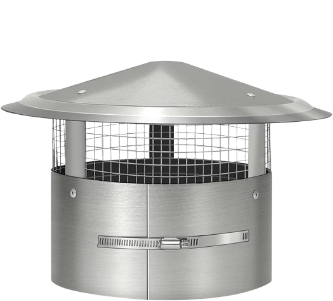
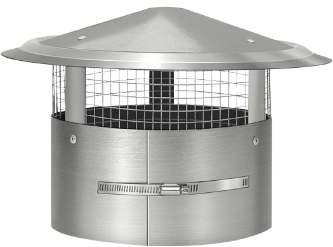
**Product photos centered and proportionate — complete** - Every product photo now sits dead-center in its tile at a consistent size. I trimmed the invisible padding baked into the image files themselves (the scupper especially was mostly empty canvas), so each product fills its frame the same way —
Emergent-Commit-Key: e7163932dc436f77b446882e68a704a089de4680baa05bbd754882ac7e70fc3e

diff --git a/frontend/src/data/products.js b/frontend/src/data/products.js
@@ -21,7 +21,6 @@ export const PRODUCTS = [
     name: "Spun Aluminum Roofing Cones",
     shortName: "Roof Cones",
     image: "/products/roof-cone.png",
-    imageClass: "scale-[1.15] group-hover:scale-[1.25]",
     category: "Penetrations",
     shortDesc:
       "One-piece spun cone flashings with wide base flanges for vent, conduit, and pipe penetrations on flat roofs.",
@@ -37,7 +36,6 @@ export const PRODUCTS = [
     name: "Spun Aluminum & Copper Stack Jacks",
     shortName: "Stack Jacks",
     image: "/products/stack-jack.png",
-    imageClass: "scale-[1.3] group-hover:scale-[1.4]",
     category: "Penetrations",
     shortDesc:
       "One-piece spun vent pipe flashings with welded base flanges and storm collars for plumbing stack penetrations.",
@@ -53,7 +51,6 @@ export const PRODUCTS = [
     name: "Parapet Thru-Wall & Overflow Scuppers",
     shortName: "Scuppers",
     image: "/products/scupper.png",
-    imageClass: "scale-[1.45] group-hover:scale-[1.55]",
     category: "Perimeter",
     shortDesc:
       "Custom fabricated parapet wall outlets with welded collector boxes and drip edges for emergency drainage.",
@@ -69,7 +66,6 @@ export const PRODUCTS = [
     name: "Rain Collars with Draw Bands",
     shortName: "Rain Collar",
     image: "/products/rain-collar.png",
-    imageClass: "scale-[1.15] group-hover:scale-[1.25]",
     category: "Penetrations",
     shortDesc:
       "Spun cone rain collars that clamp above pipe flashings and stack jacks, shedding water off vent penetrations.",

diff --git a/frontend/src/pages/Home.jsx b/frontend/src/pages/Home.jsx
@@ -247,7 +247,7 @@ const ProductStrip = () => {
                       <img
                         src={p.image}
                         alt={p.shortName}
-                        className={`h-full w-full object-contain p-2 transition-transform duration-500 ${p.imageClass || "group-hover:scale-105"}`}
+                        className="h-full w-full object-contain p-2 transition-transform duration-500 group-hover:scale-105"
                       />
                     ) : (
                       <ProductDiagram productId={id} className="h-full w-auto transition-transform duration-500 group-hover:scale-110" />

diff --git a/frontend/src/pages/Products.jsx b/frontend/src/pages/Products.jsx
@@ -48,7 +48,7 @@ const ProductCard = ({ product, index, expanded, onToggle }) => {
           <img
             src={product.image}
             alt={product.name}
-            className={`h-full w-full object-contain p-3 transition-transform duration-500 ease-out ${product.imageClass || "group-hover:scale-105"}`}
+            className="h-full w-full object-contain p-4 transition-transform duration-500 ease-out group-hover:scale-105"
             data-testid={`product-image-${product.id}`}
           />
         ) : (
